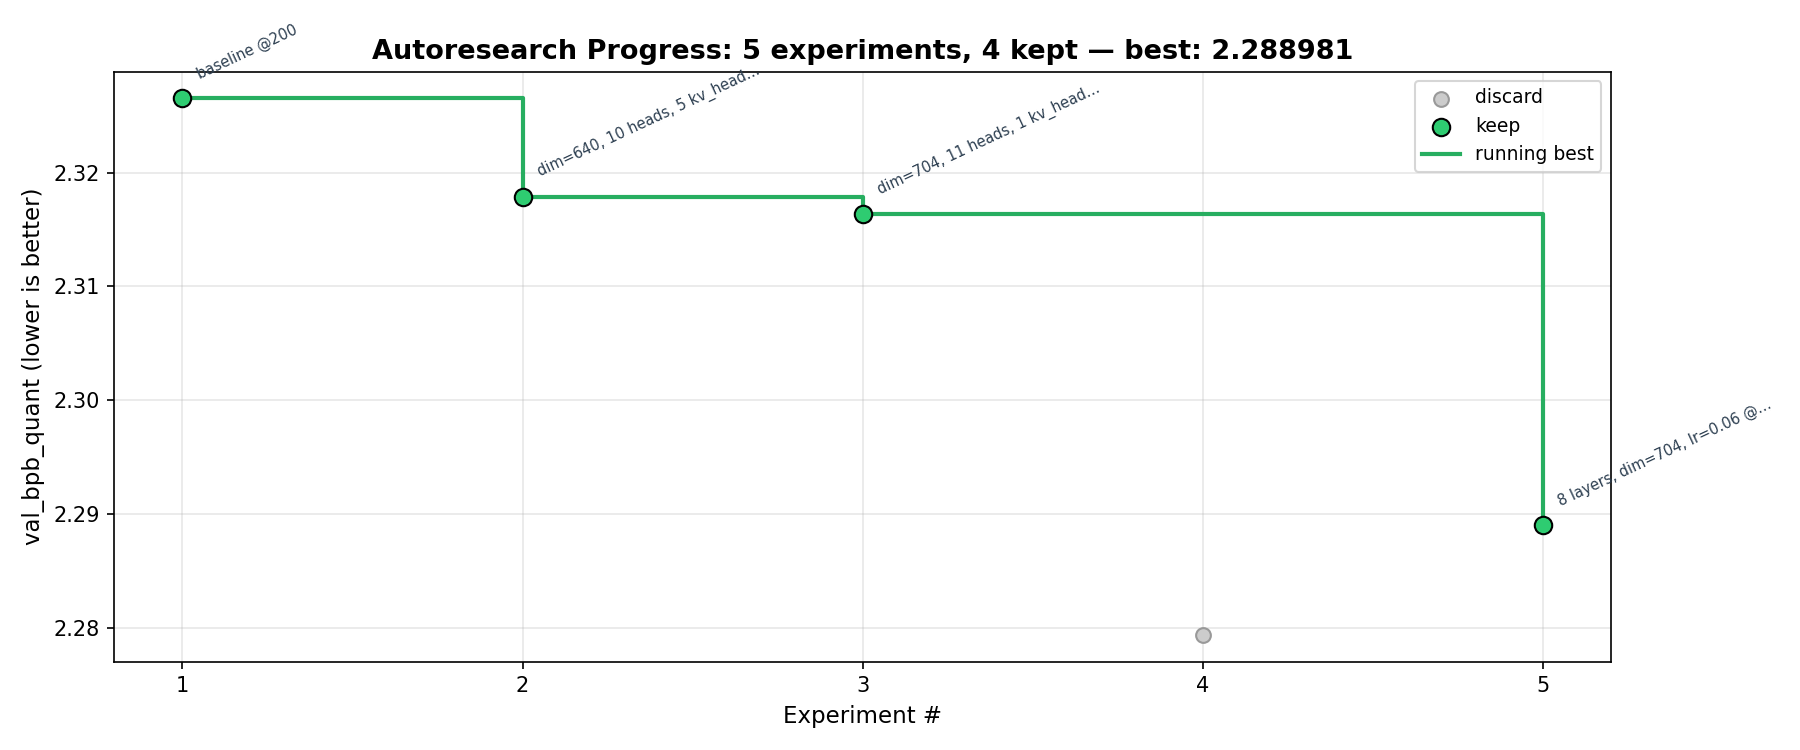
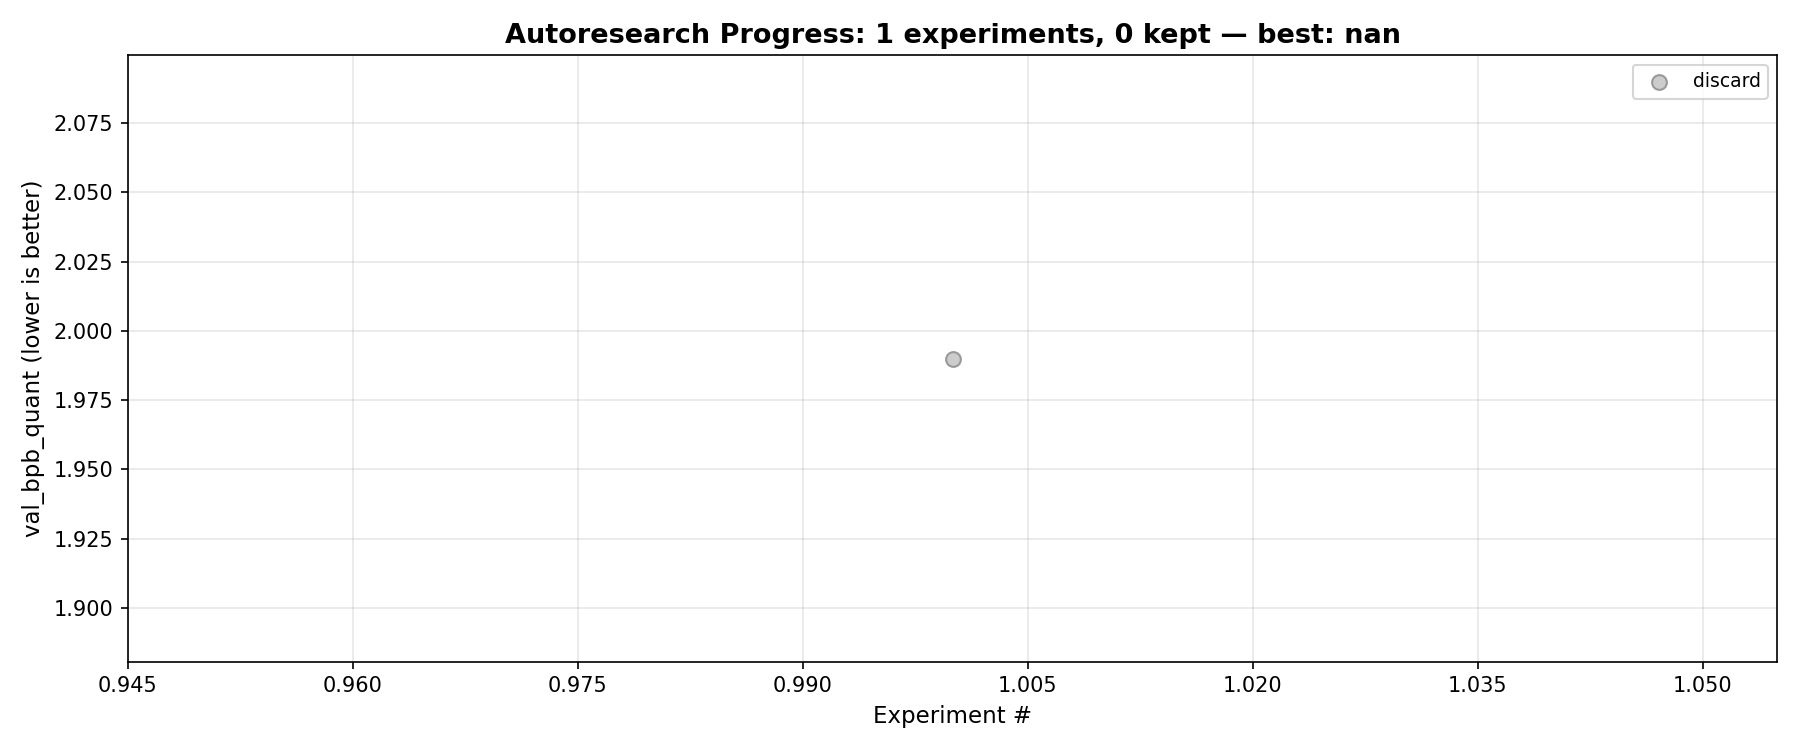
Update results: full run dim=704 8L lr=0.08 (artifact FAIL 17.3MB)

diff --git a/README.md b/README.md
@@ -15,6 +15,7 @@ An AI agent autonomously iterates on a small GPT model, trying to minimize bits-
 | 3 | 63ee03b | 2.316331 | 15.1 MB | keep | dim=704, 11 heads, 1 kv_head (MQA) @200 |
 | 4 | 57f53b3 | 2.279354 | 16.5 MB | discard | matrix_lr=0.06 (artifact FAIL) @200 |
 | 5 | 2daa918 | 2.288981 | 15.3 MB | keep | 8 layers, dim=704, lr=0.06 @200 |
+| 6 | 2c4cdf5 | 1.990023 | 17.3 MB | discard | full run dim=704 8L lr=0.08 (artifact FAIL) |
 
 **Current best: 2.288981** (8 layers, dim=704, lr=0.06 @200)
 
